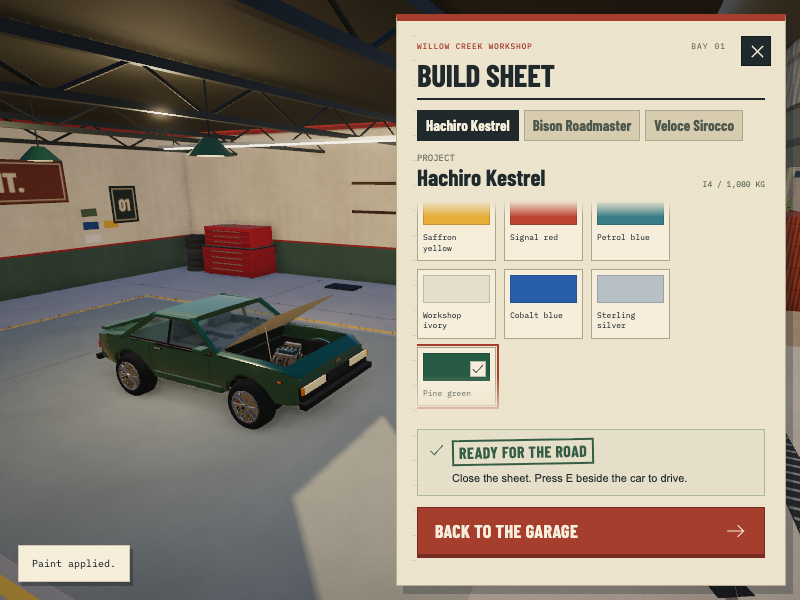
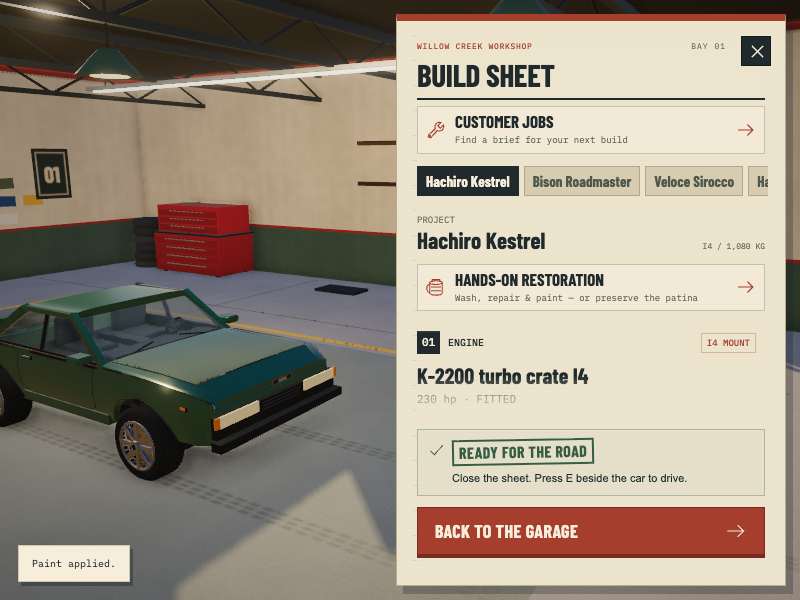
Recognize controller button values and expose restoration entry

diff --git a/tests/browser/menus.spec.ts b/tests/browser/menus.spec.ts
@@ -1,6 +1,6 @@
 import { expect, test, type Page } from '@playwright/test';
 import { mkdirSync } from 'node:fs';
-import { boot, closePanel, inspect, look, read, walk } from './helpers';
+import { boot, closePanel, drivePath, inspect, look, read, stop, walk } from './helpers';
 import { install, newGame, paintCar, purchase, STORAGE_KEY } from '../../src/game/state';
 import { LISTINGS } from '../../src/game/catalog';
 import { PROGRESS_KEY } from '../../src/game/progress';
@@ -70,11 +70,11 @@ test('inspection pauses movement and focus loss clears held input', async ({ pag
   await page.keyboard.up('KeyS');
 });
 
-test('gamepad prompts follow connection changes and the shown X and B actions work', async ({ page }) => {
+for (const buttonSignal of ['pressed', 'value'] as const) test(`gamepad ${buttonSignal} signals inspect, enter and offer a car with X`, async ({ page }) => {
   let save = newGame();
   for (const id of ['shell-bison', 'part-v8-stock', 'part-street-1']) save = purchase(save, id);
   save = install(install(save, 'car-bison', 'instance-part-v8-stock'), 'car-bison', 'instance-part-street-1');
-  await page.addInitScript(({ key, save }) => {
+  await page.addInitScript(({ key, save, buttonSignal }) => {
     localStorage.setItem(key, JSON.stringify(save));
     // Supply a standard controller through the same browser API the game polls.
     Object.defineProperty(navigator, 'getGamepads', { value: () => {
@@ -82,10 +82,20 @@ test('gamepad prompts follow connection changes and the shown X and B actions wo
       const pressed = Number(document.body?.getAttribute('data-test-button') ?? -1);
       return connected ? [{
         connected, index: 0, mapping: 'standard', axes: [0, 0, 0, 0],
-        buttons: Array.from({ length: 17 }, (_, i) => ({ pressed: i === pressed, value: Number(i === pressed) })),
+        buttons: Array.from({ length: 17 }, (_, i) => ({ pressed: buttonSignal === 'pressed' && i === pressed, value: Number(i === pressed) })),
       }] : [];
     } });
-  }, { key: STORAGE_KEY, save });
+  }, { key: STORAGE_KEY, save, buttonSignal });
+  const press = async (index: number) => {
+    await page.evaluate(async index => {
+      document.body.setAttribute('data-test-button', String(index));
+      // Let the browser deliver both the press and its release to the frame poll,
+      // including slow shader-compilation frames in Edge's test profile.
+      await new Promise(requestAnimationFrame);
+      await new Promise(requestAnimationFrame);
+    }, index);
+  };
+  const tap = async (index: number) => { await press(index); await press(-1); };
   await page.goto('./?qa=1');
   const begin = page.locator('#begin');
   await expect(begin).toBeEnabled();
@@ -116,14 +126,37 @@ test('gamepad prompts follow connection changes and the shown X and B actions wo
   await expect(hint).toHaveText('E');
   await walk(page, -24, -3);
   await walk(page, -22.6, -13);
-  await inspect(page, -20, -13, 'garage-car');
-  await expect(page.locator('#drive-keys')).toHaveText('W / S · DRIVE');
+  const garage = await read(page);
+  await look(page, Math.atan2(garage.position.x + 20, garage.position.z + 13), -.08);
+  await expect.poll(async () => (await read(page)).activeTarget).toBe('garage-car');
   await page.evaluate(() => {
     document.body.removeAttribute('data-test-button');
     document.body.setAttribute('data-test-pad', '');
   });
+  await expect(hint).toHaveText('X');
+  await tap(2);
+  await expect.poll(async () => (await read(page)).mode).toBe('drive');
   await expect(page.locator('#drive-keys')).toHaveText('RT / LT · DRIVE');
   await expect(page.locator('#recover-key')).toHaveText('Y');
+  await tap(2);
+  await expect.poll(async () => (await read(page)).mode).toBe('foot');
+  await walk(page, -22.6, -13);
+  const beside = await read(page);
+  await look(page, Math.atan2(beside.position.x + 20, beside.position.z + 13), -.08);
+  await expect.poll(async () => (await read(page)).activeTarget).toBe('garage-car');
+  await tap(2);
+  await expect.poll(async () => (await read(page)).mode).toBe('drive');
+  const site = (await read(page)).dealer;
+  await drivePath(page, [{ x: -20, z: 30 }, { x: -20, z: 60 }, { x: -19.5, z: site.bay.z - 12 }, { x: -15, z: site.bay.z - 3 }, { x: site.bay.x - 6, z: site.bay.z }, { x: site.bay.x - .5, z: site.bay.z }]);
+  await stop(page);
+  await expect(page.locator('#hint')).toContainText('Second Chance Motors');
+  await press(2);
+  await expect(page.locator('#panel')).toContainText('Trade-in offer');
+  await page.waitForTimeout(150);
+  expect((await read(page)).state.cars).toHaveLength(1);
+  await press(-1);
+  await tap(1);
+  await expect(page.locator('#panel')).toBeHidden();
   await page.evaluate(() => document.body.removeAttribute('data-test-pad'));
   await expect(page.locator('#drive-keys')).toHaveText('W / S · DRIVE');
   await expect(page.locator('#recover-key')).toHaveText('R');
@@ -246,6 +279,11 @@ test('800 by 600 workshop keeps a full collection usable through engine, wheel a
   expect((await read(page)).state.cars[0].wheelsId).toBe('instance-part-new-sport-3');
   await page.locator('[data-paint="paint-forest"]').click();
   expect((await read(page)).state.cars[0].paint).toBe('#285b43');
+  const restoration = page.getByRole('button', { name: /Hands-on restoration/ });
+  await expect(restoration).toBeInViewport();
+  await restoration.click();
+  await expect(page.locator('[data-action="restoration-start"]')).toBeVisible();
+  await page.locator('[data-action="restoration-back"]').last().click();
   await expect(page.locator('.build-status')).toContainText('READY FOR THE ROAD');
   await expect(page.locator('[aria-label="Close panel"]')).toBeInViewport();
   mkdirSync('artifacts', { recursive: true });

diff --git a/src/ui/templates.ts b/src/ui/templates.ts
@@ -271,7 +271,7 @@ function garageContents(state: GameState, car: OwnedCar, progress: Progress) {
     return `<button data-stripe="${item.id}" class="${active ? 'active' : ''}" aria-pressed="${active}" ${open && !preservePatina ? '' : 'disabled'} style="--swatch:${item.color ?? 'transparent'}"><span class="stripe-chip ${item.color ? '' : 'plain'}"></span><b>${item.name}</b>${open ? '' : `<small>${MEDAL_NAME[item.medal!]} medal</small>`}</button>`;
   }).join('');
   return `<div class="work-order"><span>PROJECT</span><strong>${shell.name}</strong><span>${shell.mount} / ${shell.mass.toLocaleString()} KG</span></div>
-    <div class="build-scroll"><button class="workshop-jobs-link workshop-restoration-link" data-action="restoration">${icon('paint')}<span>Hands-on bodywork<small>${restoration?.stage === 'complete' ? 'Your finish & before-and-after photos' : restoration ? 'Pick up where you left off' : 'Wash, repair & paint — or preserve the patina'}</small></span>${icon('arrow')}</button>${slot('engine')}${slot('wheels')}<section class="build-slot"><div class="slot-heading"><span class="slot-number">03</span><span>${preparingPaint ? 'FINAL COLOUR' : 'PAINT'}</span><b>REUSABLE</b></div>${preservePatina ? '<p class="fitted-note">Patina preserves the old paint and finish. New colour, finishes and stripes are unavailable on this route.</p>' : preparingPaint ? '<p class="fitted-note">Choose the colour for your final coat. It appears as you complete the paint step in hands-on bodywork.</p>' : ''}<div class="swatches">${state.paints.map(id => {
+    <button class="workshop-jobs-link workshop-restoration-link" data-action="restoration">${icon('paint')}<span>Hands-on restoration<small>${restoration?.stage === 'complete' ? 'Your finish & before-and-after photos' : restoration ? 'Pick up where you left off' : 'Wash, repair & paint — or preserve the patina'}</small></span>${icon('arrow')}</button><div class="build-scroll">${slot('engine')}${slot('wheels')}<section class="build-slot"><div class="slot-heading"><span class="slot-number">03</span><span>${preparingPaint ? 'FINAL COLOUR' : 'PAINT'}</span><b>REUSABLE</b></div>${preservePatina ? '<p class="fitted-note">Patina preserves the old paint and finish. New colour, finishes and stripes are unavailable on this route.</p>' : preparingPaint ? '<p class="fitted-note">Choose the colour for your final coat. It appears as you complete the paint step in hands-on bodywork.</p>' : ''}<div class="swatches">${state.paints.map(id => {
       const paint = PARTS.find(item => item.id === id)!;
       const selected = !preservePatina && car.paint === paint.color;
       return `<button data-paint="${id}" class="${selected ? 'active' : ''}" style="--swatch:${paint.color}" title="${paint.name}" aria-label="${preparingPaint ? 'Choose final colour:' : 'Apply'} ${paint.name}" aria-pressed="${selected}" ${preservePatina ? 'disabled' : ''}><span class="paint-chip">${selected ? icon('check') : ''}</span><b>${paint.name}</b></button>`;

diff --git a/tests/gamepad.test.ts b/tests/gamepad.test.ts
@@ -1,0 +1,46 @@
+import { afterEach, describe, expect, it, vi } from 'vitest';
+import { GamepadInput } from '../src/input/gamepad';
+
+function rig() {
+  const buttons = Array.from({ length: 17 }, () => ({ pressed: false, value: 0 }));
+  const controller = { connected: true, index: 0, mapping: 'standard', axes: [0, 0, 0, 0], buttons };
+  vi.stubGlobal('navigator', { getGamepads: () => [controller] });
+  return { input: new GamepadInput(), controller, buttons };
+}
+
+afterEach(() => vi.unstubAllGlobals());
+
+describe('controller button edges', () => {
+  it.each(['pressed', 'value'] as const)('recognizes an X press through %s once until release', signal => {
+    const { input, buttons } = rig();
+    input.poll();
+    if (signal === 'pressed') buttons[2].pressed = true;
+    else buttons[2].value = 1;
+    input.poll();
+    expect(input.take('interact')).toBe(true);
+    expect(input.take('interact')).toBe(false);
+    input.poll();
+    expect(input.take('interact')).toBe(false);
+    buttons[2].pressed = false; buttons[2].value = 0;
+    input.poll();
+    if (signal === 'pressed') buttons[2].pressed = true;
+    else buttons[2].value = 1;
+    input.poll();
+    expect(input.take('interact')).toBe(true);
+  });
+
+  it('ignores analog button noise and gives held controls the same threshold as actions', () => {
+    const { input, buttons } = rig();
+    buttons[2].value = .1;
+    input.poll();
+    expect(input.take('interact')).toBe(false);
+    for (const index of [0, 1, 4, 10]) buttons[index].value = 1;
+    input.poll();
+    expect(input.state).toMatchObject({ handbrake: true, nitro: true, lookBack: true, horn: true });
+    expect(input.take('confirm')).toBe(true);
+    expect(input.take('back')).toBe(true);
+    for (const index of [0, 1, 4, 10]) buttons[index].value = 0;
+    input.poll();
+    expect(input.state).toMatchObject({ handbrake: false, nitro: false, lookBack: false, horn: false });
+  });
+});

diff --git a/src/input/gamepad.ts b/src/input/gamepad.ts
@@ -22,6 +22,9 @@ export type PadButton = 'interact' | 'recover' | 'camera' | 'lights' | 'pause' |
 
 const BUTTONS: Record<PadButton, number> = { interact: 2, recover: 3, camera: 5, lights: 12, pause: 9, back: 1, photo: 8, map: 13, confirm: 0 };
 
+/** Accept either button signal, with a threshold that rejects analog noise. */
+const buttonDown = (button: GamepadButton | undefined): boolean => !!button && (button.pressed || button.value >= .5);
+
 /** Dead zone, then a curve that is gentle near the centre and full at the edge. */
 export function stickCurve(value: number, dead = .14): number {
   const magnitude = Math.abs(value);
@@ -57,12 +60,12 @@ export class GamepadInput {
     state.steer = -stickCurve(pad.axes[0] ?? 0, .08);
     state.throttle = pad.buttons[7]?.value ?? 0;
     state.brake = pad.buttons[6]?.value ?? 0;
-    state.handbrake = !!pad.buttons[0]?.pressed;
-    state.lookBack = !!pad.buttons[4]?.pressed;
-    state.horn = !!pad.buttons[10]?.pressed;
-    state.nitro = !!pad.buttons[1]?.pressed;
+    state.handbrake = buttonDown(pad.buttons[0]);
+    state.lookBack = buttonDown(pad.buttons[4]);
+    state.horn = buttonDown(pad.buttons[10]);
+    state.nitro = buttonDown(pad.buttons[1]);
     for (const [name, button] of Object.entries(BUTTONS) as [PadButton, number][]) {
-      const down = !!pad.buttons[button]?.pressed;
+      const down = buttonDown(pad.buttons[button]);
       if (down && !this.held.has(button)) this.pressed.add(name);
       if (down) this.held.add(button); else this.held.delete(button);
     }

diff --git a/src/ui/restoration.css b/src/ui/restoration.css
@@ -71,7 +71,7 @@
 .restoration-photo-actions .primary { white-space: nowrap; }
 .restoration-photo-actions .primary .ui-icon { width: 24px; height: 24px; }
 .restoration-photo-actions .restoration-return { width: auto; margin: 0; border: 0; }
-.workshop-restoration-link { margin: 0 0 15px; }
+.workshop-restoration-link { margin: 0 0 6px; }
 body[data-screen="restoration"] #objective, body[data-screen="restoration"] #footer { display: none; }
 body[data-screen="restoration"] #toast { z-index: 9; bottom: 10px; }
 @media (max-width: 950px) {

diff --git a/README.md b/README.md
@@ -94,7 +94,7 @@ The job note in the corner keeps four stamps for the selected car: shell, engine
 
 A **project car** is a car being restored, repaired or modified over time; it can already run. In this game that describes any salvage car you choose to work on, rather than a separate eligibility class. The internal `PROJECT_SHELLS` constant only identifies the yard display positions of the Wayfarer, Sprite and Courier row. It does not limit which cars support bodywork, patina or photos.
 
-Select any owned car at the Garage workbench and open **Hands-on bodywork**. All eight salvageable types qualify: Hachiro Kestrel, Bison Roadmaster, Veloce Sirocco, Hachiro Wren R, Dunmore Packhorse, Hachiro Wayfarer, Alder Sprite and Dunmore Courier. **Begin bodywork** opts that car into an as-found finish while keeping its fitted parts. Existing collections keep their original appearance until you start. Bodywork is optional, workshop supplies are included, and a running car can still be driven between operations.
+Select any owned car at the Garage workbench and open **Hands-on restoration** above the scrolling parts list. All eight salvageable types qualify: Hachiro Kestrel, Bison Roadmaster, Veloce Sirocco, Hachiro Wren R, Dunmore Packhorse, Hachiro Wayfarer, Alder Sprite and Dunmore Courier. **Begin bodywork** opts that car into an as-found finish while keeping its fitted parts. Existing collections keep their original appearance until you start. Bodywork is optional, workshop supplies are included, and a running car can still be driven between operations.
 
 Wash away grime, remove rust, repair rough panels, prime, then paint. Each operation takes about three seconds of tool contact. Drag across the visible body with a mouse or finger, or hold the tool button; keyboard users can focus it and hold Space or Enter, and controller users can focus it with the D-pad and hold A. Release between steps. Progress stops on release, cancellation or focus loss and resumes from the saved point.
 
@@ -161,7 +161,7 @@ npm run preview
 
 `check` runs TypeScript and focused Vitest checks for inventory ownership, compatibility, save validation, vehicle tuning, road connectivity/clearance across multiple seeds, touch-pointer ownership/cancellation, yard and town-lot clearance, the progress record (medals, finishes, stripes, repair of damaged saves), the dealer's offer (above the outlay, at most double, rising with the lap, the same every time it is asked in a session), tuning-part fitment, the hiding places of the rare salvage (dealt without sharing for any seed, and each one walked to from the gate in the built yard with a physics body the player's size), the lap state machine, the gearbox, daylight continuity, find placement, the audio module on a stand-in Web Audio graph, and the baked scenery itself: the whole town is built under Node for five seeds and the check fails if two different-looking surfaces overlap in one plane, which is what makes ground flicker. Browser checks exercise desktop controls, native multi-touch input at tablet sizes, production asset loading, the features added after the first drive (finds, logbook, finishes, cameras, lamps, photo mode, a timed lap, stripes, night and quality settings), and the dealer, rare salvage and tuning parts (found off the racks, fitted, driven on boost and nitrous with the modified recordings playing, sold for a fixed offer, by keyboard and by touch). Test output is the source of truth for the current checkout.
 
-`npm run test:browser:ci` runs the three `@deployment` checks for production startup and pause/input clearing, the readable graphics-error screen, and independent touch gestures/cancellation/orientation handling. GitHub's software-rendered runner uses these focused browser checks alongside all 383 unit/physics checks. The full 28-test browser suite runs with `npm run test:browser`. Run the real-time restoration and driving playthroughs on a machine with graphics acceleration and against the public URL after deployment. The first full-suite CI attempt reached the job's 20-minute limit, while its startup/menu and touch-lifecycle checks passed. Failed CI browser runs preserve traces and screenshots as workflow artifacts.
+`npm run test:browser:ci` runs the three `@deployment` checks for production startup and pause/input clearing, the readable graphics-error screen, and independent touch gestures/cancellation/orientation handling. GitHub's software-rendered runner uses these focused browser checks alongside all 386 unit/physics checks. The full 29-test browser suite runs with `npm run test:browser`. Run the real-time restoration and driving playthroughs on a machine with graphics acceleration and against the public URL after deployment. The first full-suite CI attempt reached the job's 20-minute limit, while its startup/menu and touch-lifecycle checks passed. Failed CI browser runs preserve traces and screenshots as workflow artifacts.
 
 The production build prints current JavaScript and CSS bundle sizes, including gzip sizes. Dated acceptance sections below preserve measurements from their respective builds.
 
@@ -297,7 +297,7 @@ This is a compact, single-player desktop and tablet game, with no traffic AI, mu
 
 Optional workbench restoration for all eight salvageable cars adds visible washing, corrosion treatment, localized panel repairs, matte primer and a fresh colour coat, or a satin-sealed patina route. Each car keeps its established weathering pattern and body details. Fresh paint can use an owned tin or return to the shell’s original colour at any time before completion. One owned 512×512 texture supplies progressive surface passes; the existing car geometry, garage lighting and quality pipeline remain in use. The photo sheet recreates saved before/after builds at the same camera and hour and exports a paired 1680×800 workshop print.
 
-Validation: **383 unit/physics checks** and the production build pass. **Nine production browser checks** pass under `/junkyard-drivers/`: the three deployment checks, existing small-window garage and keyboard-menu regressions, and four restoration scenarios covering Sirocco pointer/keyboard completion and photo downloads, Packhorse controller patina and focus loss, Kestrel tablet cancellation/reload in both orientations, and saved photo galleries and car switching across all eight shells. Five viewport sizes were inspected, from 390×844 to 1440×900; this is browser emulation, not a physical-tablet test. The [material review](artifacts/restoration/measurements.json) records 39 matching stage/model views across all eight cars, including compatible graphics for every car and medium/low checks, with no console errors, failed requests or external requests.
+Validation: **386 unit/physics checks** and the production build pass. **Nine production browser checks** pass under `/junkyard-drivers/`: the three deployment checks, existing small-window garage and keyboard-menu regressions, and four restoration scenarios covering Sirocco pointer/keyboard completion and photo downloads, Packhorse controller patina and focus loss, Kestrel tablet cancellation/reload in both orientations, and saved photo galleries and car switching across all eight shells. Five viewport sizes were inspected, from 390×844 to 1440×900; this is browser emulation, not a physical-tablet test. The [material review](artifacts/restoration/measurements.json) records 39 matching stage/model views across all eight cars, including compatible graphics for every car and medium/low checks, with no console errors, failed requests or external requests.
 
 The build output reports current application JavaScript and CSS sizes. The Three.js and embedded Rapier bundles are unchanged. This local validation does not publish the site.
 
